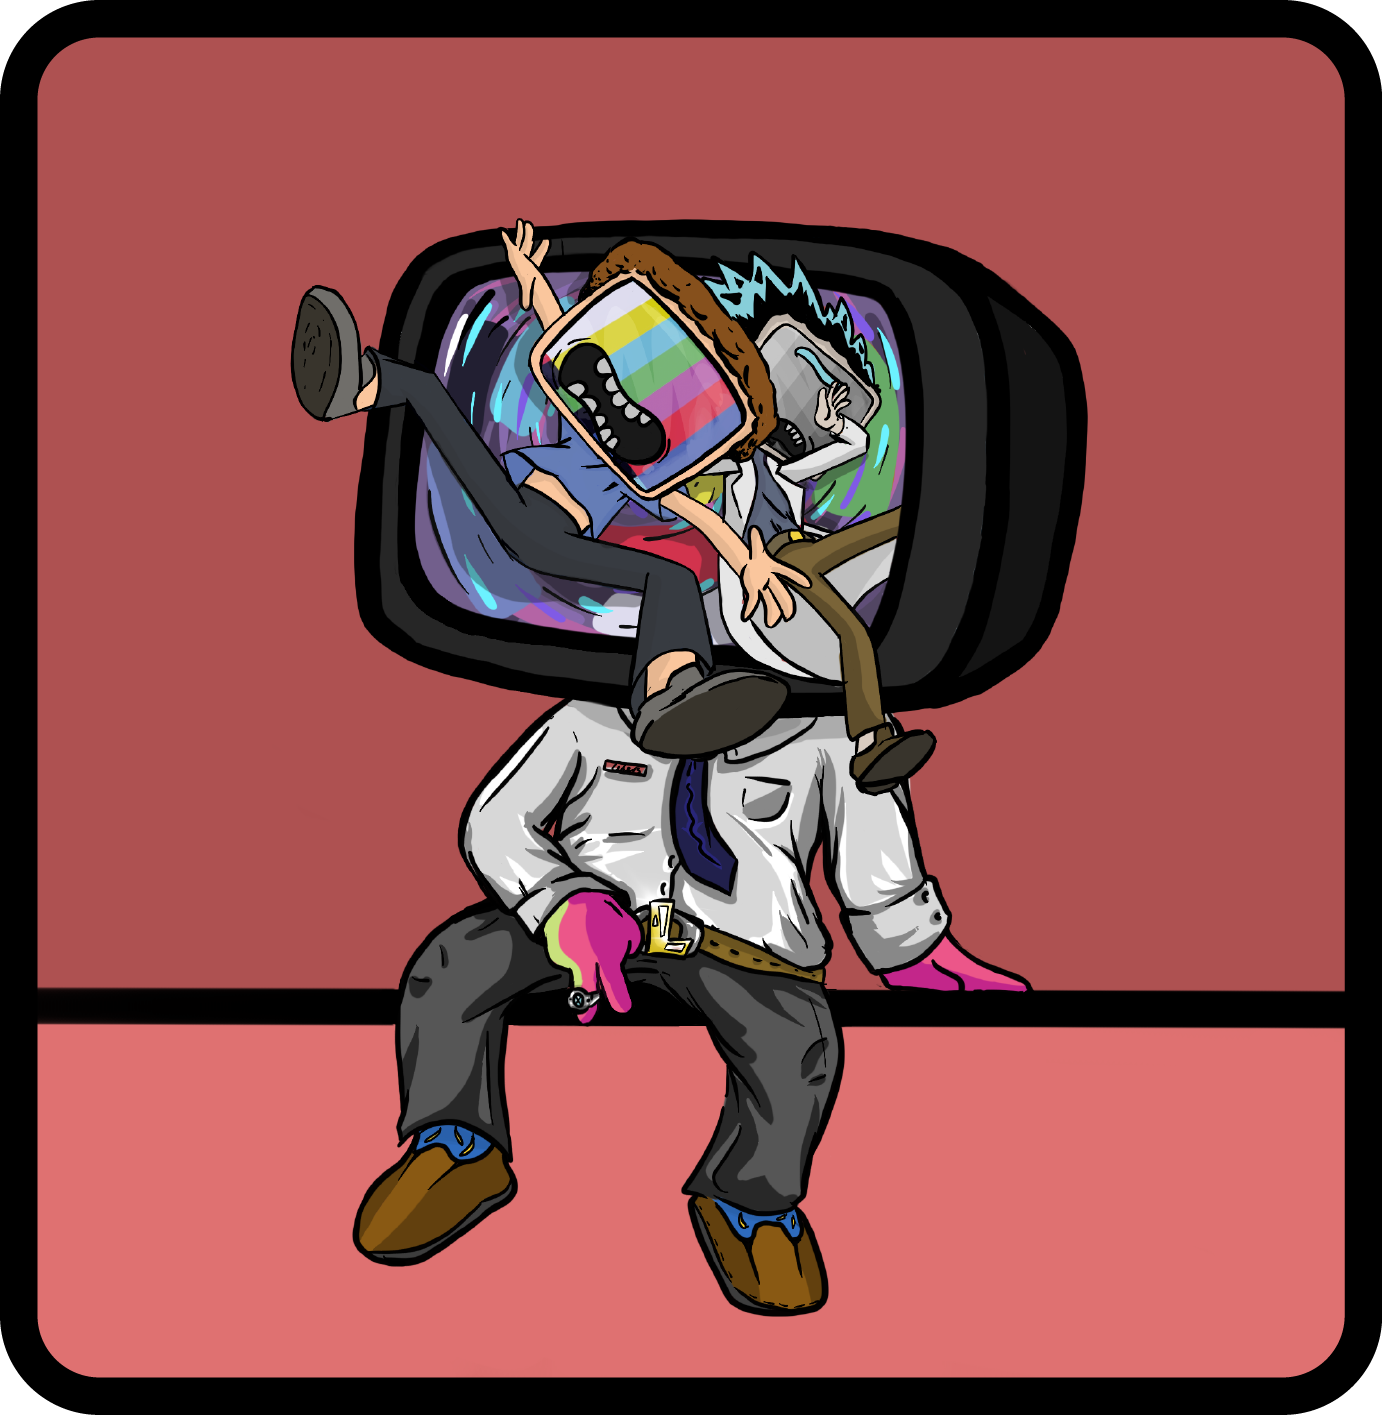
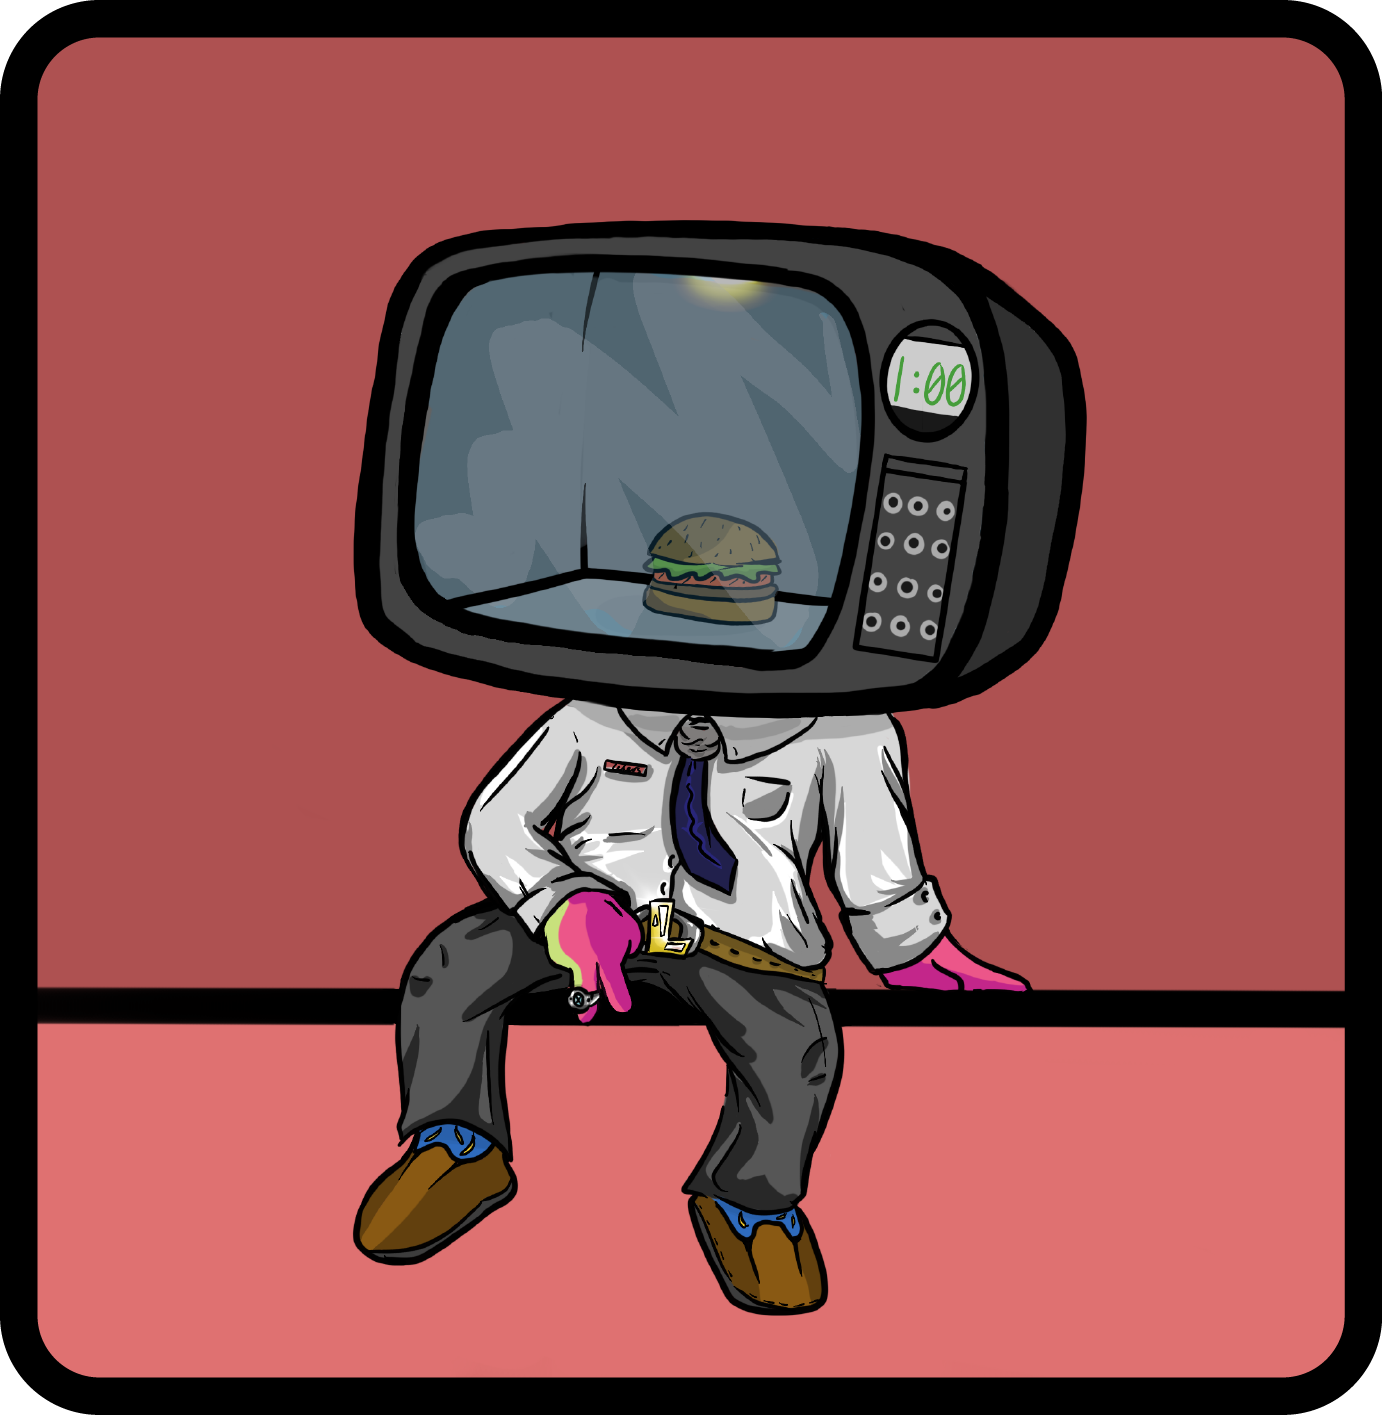
centered text, changed morty, changed name text and added twitters

diff --git a/src/components/Team/index.js b/src/components/Team/index.js
@@ -5,6 +5,10 @@ import dez from "../../images/dezigns.png";
 import theo from "../../images/theo.png";
 import beder from "../../images/beder.png";
 import team_text from "../../images/team-text.png";
+import dezigns from "../../images/dezigns-text.png";
+import thecryptokeed from "../../images/thecryptokeed-text.png";
+import bagertedesign from "../../images/bagertedesign-text.png";
+import jbdr from "../../images/jbdr-text.png";
 
 const Team = () => {
   return (
@@ -27,8 +31,14 @@ const Team = () => {
               width={300}
               height={300}
             />
-            <a class="name" href="twitter.com">
-              <MemberText>Dezigns</MemberText>
+            <a href="https://twitter.com/JM00YY">
+              <img
+                class="dezigns"
+                src={dezigns}
+                alt={"dezigns"}
+                width={129.75}
+                height={40}
+              />
             </a>
             <MemberText class="smaller">Founder / Artist</MemberText>
             <MemberText id="smaller" class="additional">
@@ -46,8 +56,14 @@ const Team = () => {
               width={300}
               height={300}
             />
-            <a class="name" href="twitter.com">
-              <MemberText>TheCryptoKeed</MemberText>
+            <a href="https://twitter.com/TheCryptoKeed">
+              <img
+                class="thecryptokeed"
+                src={thecryptokeed}
+                alt={"thecryptokeed"}
+                width={259.5}
+                height={40}
+              />
             </a>
             <MemberText class="smaller">Founder / Developer</MemberText>
             <MemberText id="smaller">
@@ -65,8 +81,14 @@ const Team = () => {
               width={300}
               height={300}
             />
-            <a class="name" href="twitter.com">
-              <MemberText>BagerTeDesign</MemberText>
+            <a href="https://twitter.com/BagerTheo">
+              <img
+                class="bagertedisgn"
+                src={bagertedesign}
+                alt={"bagertedesign"}
+                width={238.5}
+                height={40}
+              />
             </a>
             <MemberText class="smaller">3D Designer</MemberText>
             <MemberText id="smaller">
@@ -83,8 +105,14 @@ const Team = () => {
               width={300}
               height={300}
             />
-            <a class="name" href="twitter.com">
-              <MemberText>JBdr</MemberText>
+            <a href="https://twitter.com/JBdrCrypto">
+              <img
+                class="jbdr"
+                src={jbdr}
+                alt={"jbdr"}
+                width={85.5}
+                height={40}
+              />
             </a>
             <MemberText class="smaller">Strategic Partner</MemberText>
             <MemberText id="smaller">

diff --git a/src/styles.css b/src/styles.css
@@ -183,16 +183,12 @@ span {
   color: #425ba9;
 }
 
-.name {
-  text-decoration: none;
-}
-
-.name :hover {
-  color: #1c2551;
-}
-
 .additional {
   padding-left: 25px;
   padding-right: 25px;
   padding-top: 10px;
+}
+
+p {
+  text-align: justify;
 }
